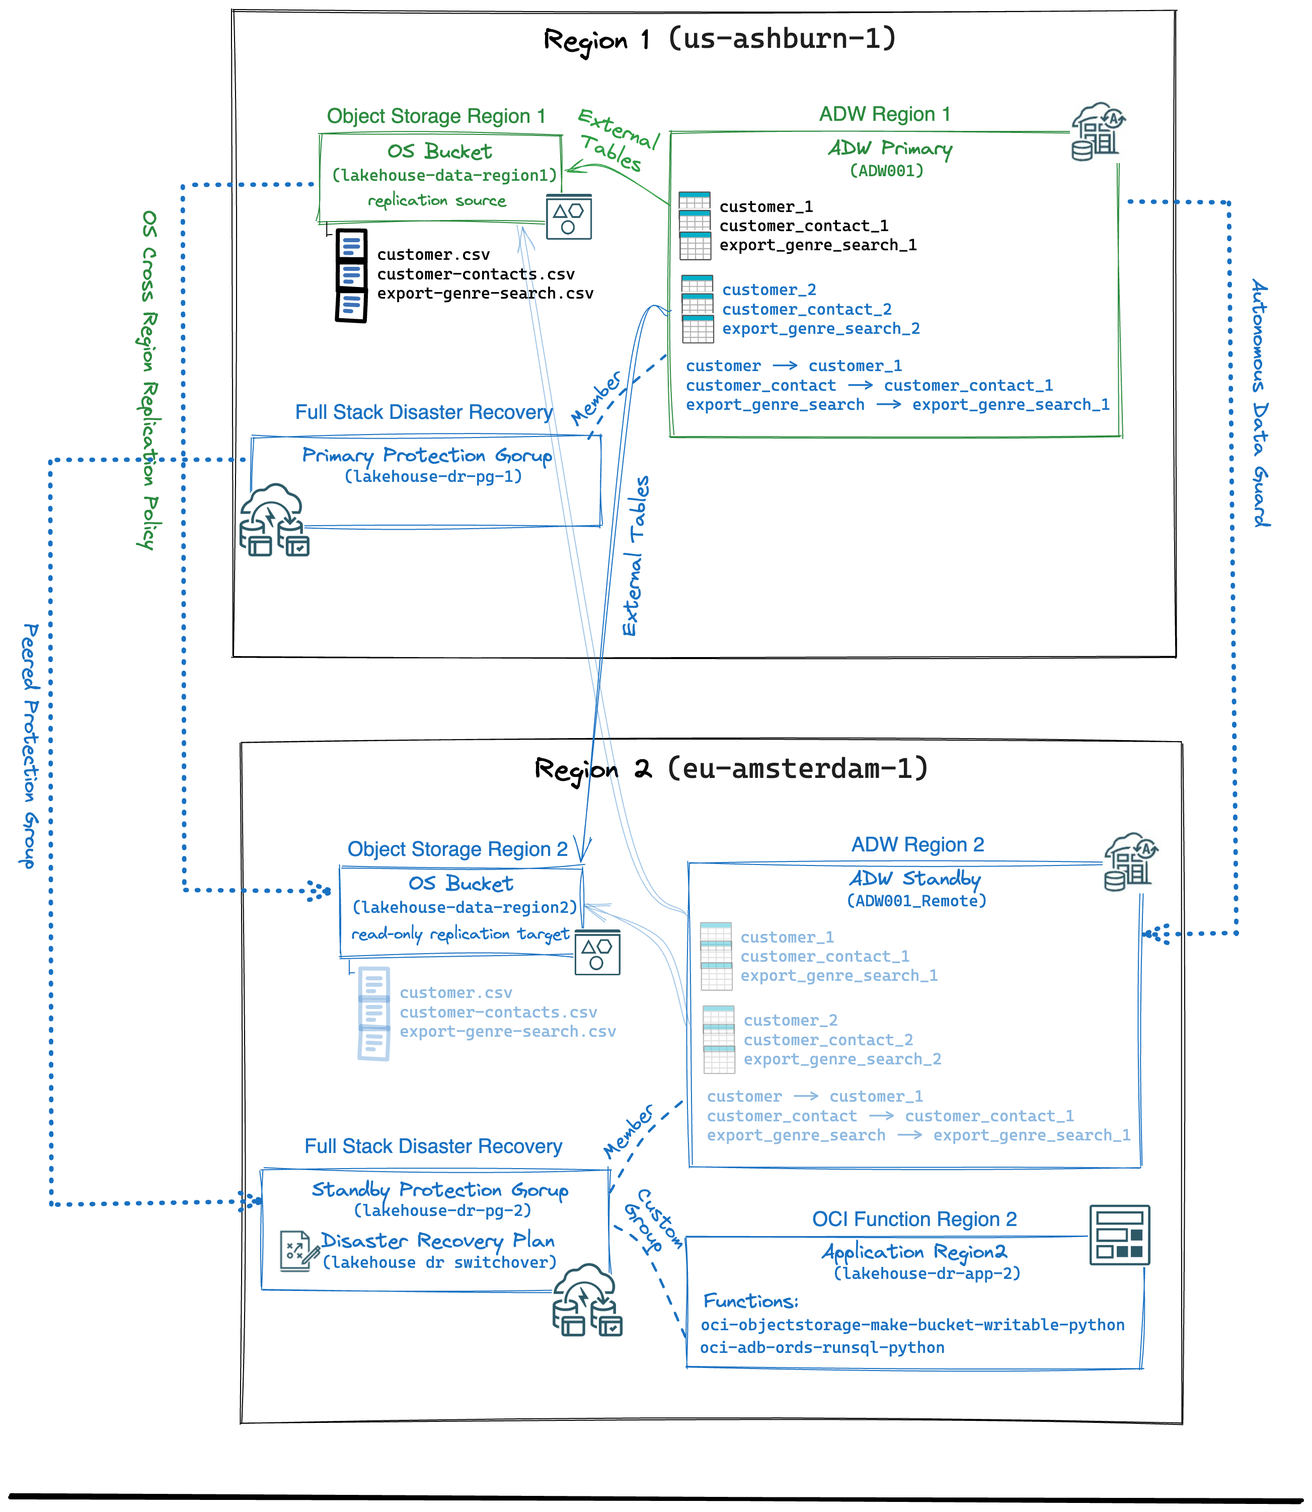
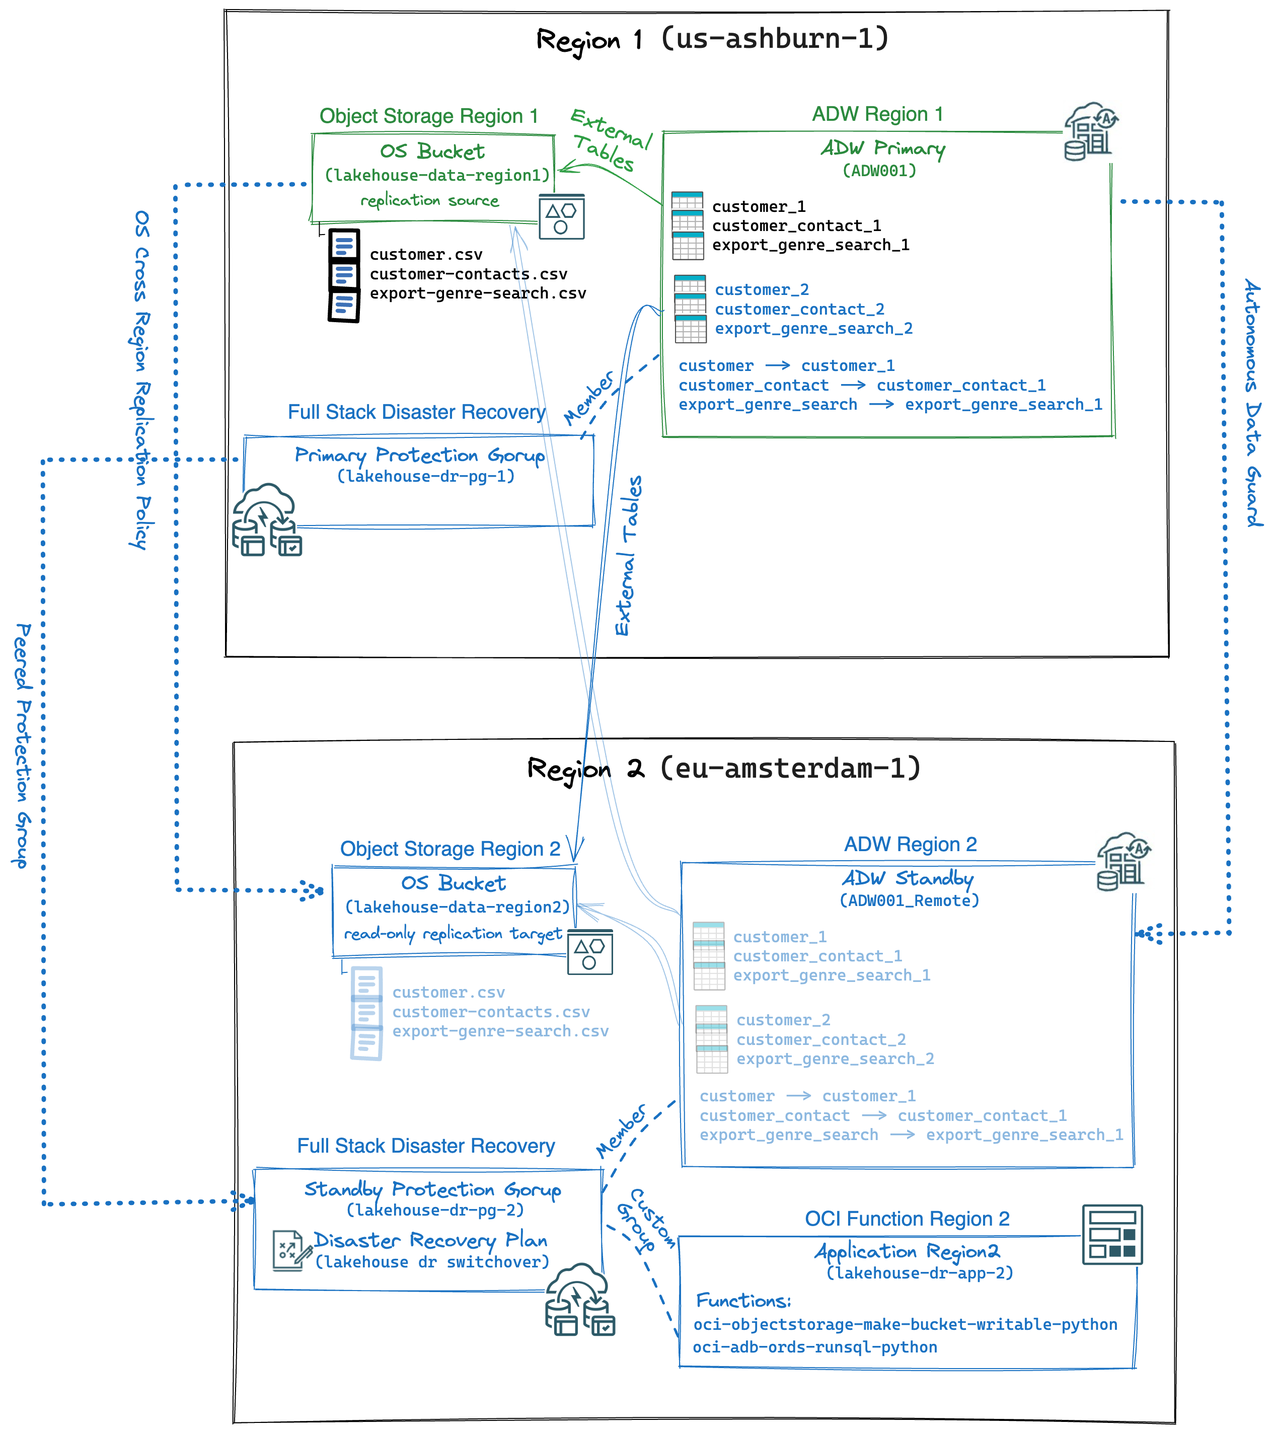
v1 draft first review

diff --git a/_posts/2024-03-05-Lakehouse-DR-Architecture-Oracle-Cloud.md b/_posts/2024-03-05-Lakehouse-DR-Architecture-Oracle-Cloud.md
@@ -27,9 +27,9 @@ In this article, I go over how to set up the disaster recovery solution for the 
 
 Oracle ADW is connected to an OCI Object Storage and can directly query data files ingested into Object Storage buckets.
 
-To meet Disaster Recovery cross-Region criteria, another ADW (a *Standby* ADW) is automatically set-up and kept aligned in a different OCI Region (Region2) by enabling Autonomous Data Guard.
+To meet Disaster Recovery cross-Region criteria, another ADW (a *Standby* ADW) is automatically set-up and kept aligned in a different OCI Region (Region2) by enabling **Autonomous Data Guard**.
 
-To provide a full disaster recovery solution, also the OCI Object Storage files are replicated in the OCI Region2 by creating an Object Storage replication policy.
+To provide a full disaster recovery solution, also the OCI Object Storage files are replicated in the OCI Region2 by creating an **Object Storage replication policy**.
 
 Prior to describing the configuration steps, it is important to highlight a few details:
 
@@ -39,8 +39,8 @@ Prior to describing the configuration steps, it is important to highlight a few 
 
 Then, when a failover or a switchover occurs we must be able to:
 
-* Switch the mapping of the ADW external tables to the bucket that is addressable by the secondary Region's Object Storage URI.
-* Stop the Object Storage replication policy in target bucket on Region2.
+* **Switch the mapping of the ADW external tables** to the bucket that is addressable by the secondary Region's Object Storage URI.
+* **Stop the Object Storage replication policy** in target bucket on Region2.
 
 This article shows how to handle those additional steps and how to use **OCI Full Stack Disaster Recovery (FSDR)** service to automate the entire DR switchover/failover process.
 
@@ -68,6 +68,7 @@ The initial configuration is a simple single region deployment (Region 1, *us-as
 * **Instance Name**: _ADW001_
   ![Fig.4: Region1, ADW instance](/data-organon/images/2024-02-29-Lakehouse-DR-Architecture-Oracle-Cloud/initial-adw-region1.png)
 * **External Tables**: In the database schema _LHUSER_ there are three external tables mapped on the correspondent Object storage files:
+  
   * *CUSTOMER_1*
   * *CUSTOMER_CONTACT_1*
   * *EXPORT_SEARCH_GENRE_1*
@@ -112,12 +113,12 @@ This disaster recovery solution architecture design includes:
 
 ### **Disaster Recovery configuration for OCI Object Storage**
 
-You need to automatically replicate the Object Storage files from the bucket in *Region1* to the bucket in *Region2* whenever a new file is stored in the bucket or an existing one is updated. Then you enable the Object Storage cross-region replication on the bucket *lakehouse-data-region1* configuring as a target the bucket in Region*lakehouse-data-region2* (previously created in *Region2*).
+You need to automatically replicate the Object Storage files from the bucket in *Region1* to the bucket in *Region2* whenever a new file is stored in the bucket or an existing one is updated. Then you enable the Object Storage cross-region replication on the bucket *lakehouse-data-region1* by configuring as a target the bucket *lakehouse-data-region2* (previously created in *Region2*).
 
-Object Storage replication policy on source bucket in Region1:
+Object Storage replication policy on source **bucket in Region1**:
 ![Fig.6: Region1, Object Storage replication policy on source bucket](/data-organon/images/2024-02-29-Lakehouse-DR-Architecture-Oracle-Cloud/replication-policy-source.png)
 
-Target Object Storage bucket with replication policy in Region2:
+Target Object Storage bucket with **replication policy in Region2**:
 ![Fig.7: Region2, Object Storage target bucket in Region2](/data-organon/images/2024-02-29-Lakehouse-DR-Architecture-Oracle-Cloud/destination-bucket-content-ams.png)
 
 ![Fig.7: Region2, Object Storage replication policy on target bucket](/data-organon/images/2024-02-29-Lakehouse-DR-Architecture-Oracle-Cloud/replication-policy-destination.png)
@@ -126,15 +127,15 @@ Target Object Storage bucket with replication policy in Region2:
 
 The DR configuration for ADW leverages **Autonomous Data Guard**. In the Autonomous Data Warehouse database in Region1 (*ADW001*), you enable a remote "Standby" database in Region2 (*ADW001_Remote*).
 
-Autonomous Data Warehouse Primary instance in Region1:
-![Fig.6: Region1, Autonomous Data Warehouse Primary instance for disaster recovery](/data-organon/images/2024-02-29-Lakehouse-DR-Architecture-Oracle-Cloud/primary-adw-region1.png)
+Autonomous Data Warehouse **Primary instance in Region1**:
+![Fig.6: Region1, Autonomous Data Warehouse Primary instance for disaster recovery](/data-organon/images/2024-02-29-Lakehouse-DR-Architecture-Oracle-Cloud/adw-primary-ash.png)
 
-Autonomous Data Warehouse Standby instance in Region2:
-![Fig.7: Region2, Autonomous Data Warehouse Standby instance for disaster recovery](/data-organon/images/2024-02-29-Lakehouse-DR-Architecture-Oracle-Cloud/standby-adw-region2.png)
+Autonomous Data Warehouse **Standby instance in Region2**:
+![Fig.7: Region2, Autonomous Data Warehouse Standby instance for disaster recovery](/data-organon/images/2024-02-29-Lakehouse-DR-Architecture-Oracle-Cloud/adw-remote-standby-ams.png)
 
-In order to promptly prepare ADW for a switchover/failover to *Region2*, you can already create external tables mapped on the replicated files in the target replication bucket in *Region2*.
+In order to promptly prepare ADW for a switchover/failover to *Region2*, you can create external tables mapped on the replicated files in the target replication bucket in *Region2*.
 
-This is an example of the creation of an ADW external table mapped on the same file seen above, now replicated in Region2.
+This is an example of the creation of an ADW external table mapped on the same file seen above, but replicated in Region2.
 
 ```
 BEGIN
@@ -148,12 +149,12 @@ END;
 /
 ```
 
-At this point of the process of external table creation, you have three couples of external tables, those with suffix "*_1*" that are mapped on the source bucket in Region1 and those with suffix "*_2*" mapped on the target replication bucket on Region2.
+At this point of the process, you have three couples of external tables, those with suffix "*_1*" that are mapped on the source bucket in Region1 and those with suffix "*_2*" mapped on the target replication bucket on Region2.
 
 ![Fig.8: Region1, External Tables from both Region1 and Region2 mappings](/data-organon/images/2024-02-29-Lakehouse-DR-Architecture-Oracle-Cloud/external-tables-region1-region2.png)
 
-You can then define synonyms based on the external table to abstract the queries against those objects from the physical names of the external tables. Then, during a DR failover process, you just need to recreate the synonyms by switching their base tables from external tables mapped on Region1 files to external tables mapped on Region2 files. This ensures that the queries against such ADW items will not require any change.
-You initially create the synonyms based on external tables with suffix *_1*, and you can keep those base tables as long as the workload is active in Region1.
+You can then define **synonyms** based on the external table to abstract the queries against those objects from the physical names of the external tables. Then, during a DR failover process, you just need to recreate the synonyms by switching their base tables from external tables mapped on Region1 files to external tables mapped on Region2 files. This ensures that the queries against such ADW items will not require any change.
+You initially create the synonyms based on external tables with suffix "*_1*", and you can keep those base tables as long as the workload is active in Region1.
 Following the naming convention used in this example, you can create the synonym with same name of the base table without the suffix.
 
 For example:
@@ -162,13 +163,13 @@ For example:
 CREATE OR REPLACE SYNONYM EXPORT_SEARCH_GENRE FOR EXPORT_SEARCH_GENRE_1;
 ```
 
-These are the synonyms created on ADW when Region1 is active:
+Let's create the **synonyms** for all the external tables:
 ![Fig.9: Region1, Synonyms created on ADW when Region1 is active](/data-organon/images/2024-02-29-Lakehouse-DR-Architecture-Oracle-Cloud/synonyms.png)
 
-This is a sample of synonym metadata that shows the base table:
+This is a sample of **synonym metadata** that shows the base table in Region1:
 ![Fig.9: Region1, Synonyms created on ADW when Region1 is active](/data-organon/images/2024-02-29-Lakehouse-DR-Architecture-Oracle-Cloud/syn-customer-base-customer1-ash.png)
 
-Finally, on ADW, you need a procedure to automatically replace all the synonyms present in a schema. The procedure will retrieve all the synonyms metadata, and execute a sql statement for each synonym to replace the base table. For example, in this case you have three synonyms and if you need to switch the synonyms after a failover from Region1 to Region2 you need to execute the following statements on ADW:
+Finally, on ADW, you need a procedure to **automatically replace all the synonyms** present in a schema. The procedure will retrieve all the synonyms metadata, and execute a sql statement for each synonym to replace the base table. In this case you have three synonyms and if you need to switch the synonyms after a failover from Region1 to Region2 you need to execute the following statements on ADW:
 
 ```
 CREATE OR REPLACE SYNONYM CUSTOMER FOR CUSTOMER_2;
@@ -176,7 +177,7 @@ CREATE OR REPLACE SYNONYM CUSTOMER_CONTACT FOR CUSTOMER_CONTACT_2;
 CREATE OR REPLACE SYNONYM EXPORT_SEARCH_GENRE FOR EXPORT_SEARCH_GENRE_2;
 ```
 
-For example, I created the following procedure *SWAP_SYNONYMS* that reads all the synonyms in the schema supplied as `SYN_SCHEMA` parameter and modify their base tables suffix with the value of the parameter `REGION_NUM`.
+As example, I created the following procedure *SWAP_SYNONYMS* that reads all the synonyms in the schema supplied as `SYN_SCHEMA` parameter and modify their base tables suffix with the value of the parameter `REGION_NUM`.
 
 ```
 CREATE OR REPLACE PROCEDURE LHUSER.SWAP_SYNONYMS
@@ -206,8 +207,8 @@ END SWAP_SYNONYMS;
 
 In this DR architecture, you have to define a DR User-Defined Group with the steps that allow for a full recovery plan during switchover/failover operations to *Region2*:
 
-* **Stop the Object Storage replication** in the bucket that is the replication target. This allows you to be able to use it as a normal bucket for both reading and writing operations.
-* **Switch the synonyms** from to the base tables mapped on the files stored in the Region1 bucket, to the base tables mapped on the files stored in the Region2 bucket.
+* **Stop the Object Storage replication** in the bucket that is the replication target. This allows you to use it as a normal bucket for both reading and writing operations.
+* **Switch the synonyms** from to the base tables mapped on the files stored in the Region1 source bucket, to the base tables mapped on the files stored in the Region2 target bucket.
 
 With **OCI Full Stack Disaster Recovery**, you have three different choices for configuring the user-defined steps:
 
@@ -221,7 +222,7 @@ As examples, the two function I used are listed below.
 
 #### Function *oci-objectstorage-make-bucket-writable-python*
 
-The first OCI Function example leverages OCI API Python SDK. There is an API for OCI Object Storage that has the ability to stop the target bucket's Object Storage replication policy. The following Python sample code uses the `make_bucket_writable` API to stop the replication policy of a bucket (the bucket name must be supplied as parameter value):
+The first OCI Function leverages **OCI API Python SDK**. The following Python sample code uses the `make_bucket_writable` API to stop the replication policy of a bucket (the bucket name must be supplied as parameter value):
 
 ```
 #
@@ -262,7 +263,7 @@ print(object.headers)
 
 #### Function *oci-adb-ords-runsql-python*
 
-The other sample OCI Function leverages the ADW Rest Data Service sql-endpoint to run a sql statement provided in the `sql` parameter value.  In this case the sql statement will be the execution of the PL-SQL procedure that switch the synonyms of the external tables.
+The second OCI Function leverages the ADW Rest Data Service sql-endpoint to run a sql statement provided in the `sql` parameter value.  In this case the sql statement will be the execution of the PL-SQL procedure that switch the base tables of the synonyms.
 
 ```
 import io
@@ -320,63 +321,73 @@ headers={"Content-Type": "application/json"}
 )
 ```
 
-> **Note**: This and many other OCI Function samples are available in the [Oracle Samples Github repository](https://github.com/oracle-samples/oracle-functions-samples). The function used in this example is documented there. The only modification that I made was to properly handle the text result of a procedure call.
+> **Note**: This and many other OCI Function samples are available in the [Oracle Samples Github repository](https://github.com/oracle-samples/oracle-functions-samples). The function used in this example is documented [here](https://github.com/oracle-samples/oracle-functions-samples/tree/master/samples/oci-adb-ords-runsql-python). The only modification that I made was to properly handle the text result of a procedure call.
 
 ### **Full Stack Disaster Recovery Configuration**
 
-To automate a DR switchover with FSDR you create (and peer) DR Protection Groups (Primary and Standby), and a DR plan with built-in and user-defined groups. In details, you need to:
+To automate a DR switchover with **FSDR** you create (and peer) **DR Protection Groups** (Primary and Standby), and a DR plan with built-in and user-defined groups. In details, you need to:
 
-* Create a DR Protection Group in Region1 (*lakehouse-dr-pg-1*) and add as member the ADW Primary instance (*ADW001*), with Role *Not Configured* (you cannot assign a Role until you have created another DR Protection Group).
+* **Create a DR Protection Group in Region1** (*lakehouse-dr-pg-1*) and add the ADW Primary instance (*ADW001*) as member, with Role *Not Configured* (you cannot assign a Role until you have created another DR Protection Group).
   ![Fig.9: Region1, DR Protection Group](/data-organon/images/2024-02-29-Lakehouse-DR-Architecture-Oracle-Cloud/create-dr-pg1.png)
-* Create a DR Protection Group in Region2 (*lakehouse-dr-pg-2*), add as a member the ADW Standby instance (*ADW001_Remote*), peer this group to the *lakehouse-dr-pg-1* created in Region1, and assign it the Standby Role (this will automatically assign the Role Primary to the DR Protection Group created in Region1).
+* **Create a DR Protection Group in Region2** (*lakehouse-dr-pg-2*), add the ADW Standby instance (*ADW001_Remote*) as member, peer this group to the *lakehouse-dr-pg-1* created in Region1, and assign it the **Standby** role (this will automatically assign the **Primary** role to the DR Protection Group created in Region1).
   ![Fig.10: Region2, DR Protection Group](/data-organon/images/2024-02-29-Lakehouse-DR-Architecture-Oracle-Cloud/create-dr-pg2.png)
-* Create a Plan for DR Protection Group in Region2 (DR Plan can only be created at the Standby DR Protection Group). For the purpose of this article I created a switchover plan.
+* Create a **DR Plan** for DR Protection Group in Region2 (DR Plan can only be created at the Standby DR Protection Group). For the purpose of this article I created a **switchover** plan.
   ![Fig.11: Region2, DR Plan](/data-organon/images/2024-02-29-Lakehouse-DR-Architecture-Oracle-Cloud/create-dr-plan.png)
 
 Once created, the DR Plan comes with two Built-in Plan Groups:
 
-* **Prechecks**: Perform a set of checks to validate that a DR Plan is compliant with the members and configuration of the DR Protection Groups with which the DR Plan is associated. Prechecks are used to perform ongoing DR Plan validation (DR readiness checks) to ensure that the DR Plan (DR workflow) stays aligned with the topology it protects
+* **Prechecks**: Prechecks built-in group perform a set of checks to validate that a DR Plan is compliant with the members and configuration of the DR Protection Groups with which the DR Plan is associated. Prechecks are used to perform ongoing DR Plan validation (DR readiness checks) to ensure that the DR Plan (DR workflow) stays aligned with the topology it protects
 * **Switchover Autonomous Databases**: step for ADW (*ADW001*) switchover generated automatically by Full Stack DR when DR Plan has been created.
 
 ![Fig.12: Region2, DR Plan Built-in Groups](/data-organon/images/2024-02-29-Lakehouse-DR-Architecture-Oracle-Cloud/dr-plan-with-builtin-groups.png)
 
-Now we can add the user-defined group (*Switchover lakehouse external tables*) that will start after the ADW switchover.
+Now you can add the user-defined group (*Switchover lakehouse external tables*) that will start after the ADW switchover.
 
 ![Fig.13: Region2, add plan group](/data-organon/images/2024-02-29-Lakehouse-DR-Architecture-Oracle-Cloud/add-plan-group.png)
 
-The groups will perform two additional DR steps: stopping the replication policy in the target Object Storage bucket and switching the ADW synonyms:
+The groups will perform two additional **DR steps**: stopping the replication policy in the target Object Storage bucket and switching the ADW synonyms:
 
 1. **make replication OS bucket writable**. This step invokes the function *objectstorage-make-bucket-writable-python* to stop the replication policy in the target bucket (*lakehouse-data-region2*):
    ![Fig.15: Region2, add step "Stop replication" ](/data-organon/images/2024-02-29-Lakehouse-DR-Architecture-Oracle-Cloud/add-step1-stop-replication.png)
 2. **switchover ADW synonyms**. This step invokes the function *oci-adb-ords-runsql-python* to change the suffix of the synonyms base tables. In this case the new suffix will be "*2*" (so for example the synonym *CUSTOMER* will change the base table from *CUSTOMER_1* to *CUSTOMER_2*) for all the synonym in the DB schema *LHUSER*:
-   ![Fig.14: Region2, add step "run sql"](/data-organon/images/2024-02-29-Lakehouse-DR-Architecture-Oracle-Cloud/add-step2-switch-synonyms.png)2.
+   ![Fig.14: Region2, add step "run sql"](/data-organon/images/2024-02-29-Lakehouse-DR-Architecture-Oracle-Cloud/add-step2-switch-synonyms.png)
 
 As final results we have a full disaster recovery plan:
-![Fig.14: Region2, add step "run sql"](/data-organon/images/2024-02-29-Lakehouse-DR-Architecture-Oracle-Cloud/complete-dr-plan.png).
+![Fig.14: Region2, add step "run sql"](/data-organon/images/2024-02-29-Lakehouse-DR-Architecture-Oracle-Cloud/complete-dr-plan.png)
 
 Once you've run the pre-built prechecks group and validated the DR plan, you're ready to switchover:
 
-![Fig.14: Region2, add step "run sql"](/data-organon/images/2024-02-29-Lakehouse-DR-Architecture-Oracle-Cloud/lakehouse-dr-switchover-succeeded.png).
+![Fig.14: Region2, add step "run sql"](/data-organon/images/2024-02-29-Lakehouse-DR-Architecture-Oracle-Cloud/lakehouse-dr-switchover-succeeded.png)
 
 The FSDR plan completed successfully!
 You can see the ADW instance in Region2 (ADW001_Remote) has changed its tole to Primary:
 
-![Fig.14: Region2, ADW001_Remote Primary role after switchover](/data-organon/images/2024-02-29-Lakehouse-DR-Architecture-Oracle-Cloud/adw-remote-ams-primary.png).
+![Fig.14: Region2, ADW001_Remote Primary role after switchover](/data-organon/images/2024-02-29-Lakehouse-DR-Architecture-Oracle-Cloud/adw-remote-ams-primary.png)
 
 The Object Storage bucket *lakehouse-data-region2* has no replication policy, and it's become writable:
 
-![Fig.14: Region2, Bucket with no replication policy](/data-organon/images/2024-02-29-Lakehouse-DR-Architecture-Oracle-Cloud/lakehouse-data-region2-bucket-no-replication.png).
+![Fig.14: Region2, Bucket with no replication policy](/data-organon/images/2024-02-29-Lakehouse-DR-Architecture-Oracle-Cloud/lakehouse-data-region2-bucket-no-replication.png)
 
 The ADW synonyms switched their base tables to the external tables with suffix *_2*. For example the synonym "CUSTOMER" now has CUSTOMER_2 as base table:
 
-![Fig.14: Region2, ADW CUSTOMER Synonym metadata](/data-organon/images/2024-02-29-Lakehouse-DR-Architecture-Oracle-Cloud/customer-syn-base-customer2-ams.png).
+![Fig.14: Region2, ADW CUSTOMER Synonym metadata](/data-organon/images/2024-02-29-Lakehouse-DR-Architecture-Oracle-Cloud/customer-syn-base-customer2-ams.png)
 
-And finally you can successfully query your lakehouse data:
+And now you can successfully query your lakehouse data:
 
-![Fig.14: Region2, ADW CUSTOMER query results on Region2](/data-organon/images/2024-02-29-Lakehouse-DR-Architecture-Oracle-Cloud/select-from-customer-result-ams.png).
+![Fig.14: Region2, ADW CUSTOMER query results on Region2](/data-organon/images/2024-02-29-Lakehouse-DR-Architecture-Oracle-Cloud/select-from-customer-result-ams.png)
 
+Finally, note that also the DR Plan (*lakehouse DR switchover*) has changed its role to *Primary*. You now may want to create a Standby DR plan in Region1 to switchover back to Region1 these components whenever you need (or to be ready in case of failover in Region2).
 
-> **Note**: Also the DR Plan (*lakehouse DR switchover*) has changed its role to *Primary*. You may want to create a similar DR plan in Region1 to switchover back to Region1 these components whenever you need (or to be ready in case of failover in Region2).
+## References
+
+* **OCI Data platform - data lakehouse**: [Oracle Architecture Center](https://docs.oracle.com/en/solutions/data-platform-lakehouse/index.html#GUID-A328ACEF-30B8-4595-B86F-F27B512744DF)
+* **Oracle Autonomous Data Warehouse**:
+  * Query External Data with Autonomous Database: [Oracle Documentation](https://docs.oracle.com/en/cloud/paas/autonomous-database/serverless/adbsb/query-external.html#GUID-ABF95242-3E04-42FF-9361-52707D14E833)
+  * Use Standby Databases with Autonomous Data Guard for Disaster Recovery: [Oracle Documentation](https://docs.oracle.com/en-us/iaas/autonomous-database-serverless/doc/autonomous-data-guard.html)
+* **OCI Object Storage**: Object Storage Replication: [Oracle Documentation](https://docs.oracle.com/en-us/iaas/Content/Object/Tasks/usingreplication.htm)
+* **OCI SDK For Python**: [Oracle Documentation](https://docs.oracle.com/en-us/iaas/Content/API/SDKDocs/pythonsdk.htm)
+* **oracle-functions-samples**: [Oracle Github Repository](https://github.com/oracle-samples/oracle-functions-samples)
+* **OCI Full Stack Disaster Recovery**: [Oracle Documentation](https://docs.oracle.com/en-us/iaas/disaster-recovery/index.html)
 
 ## _Credits_
 
